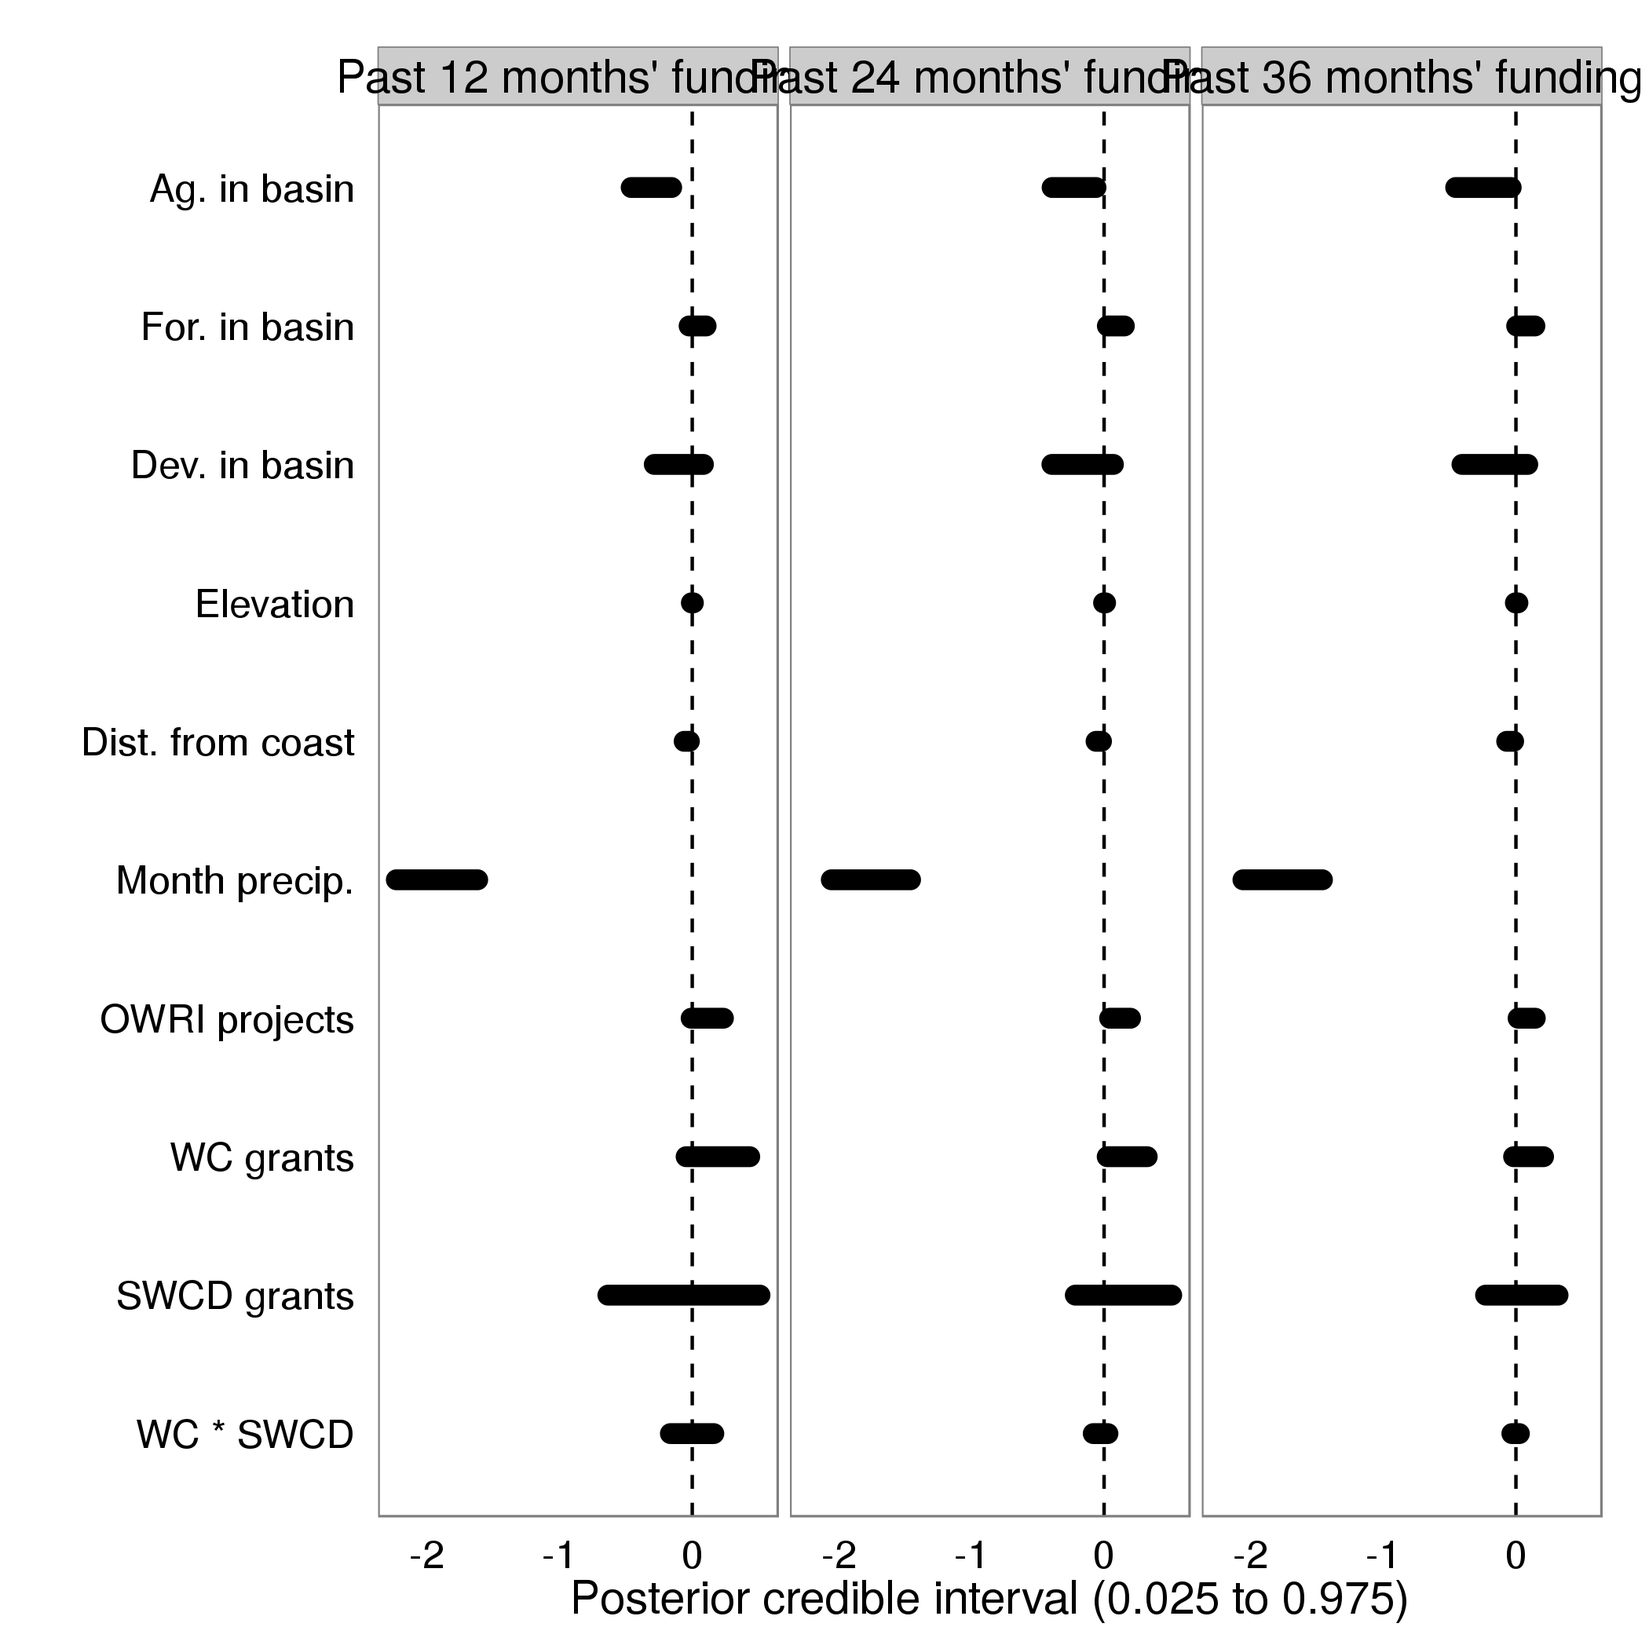
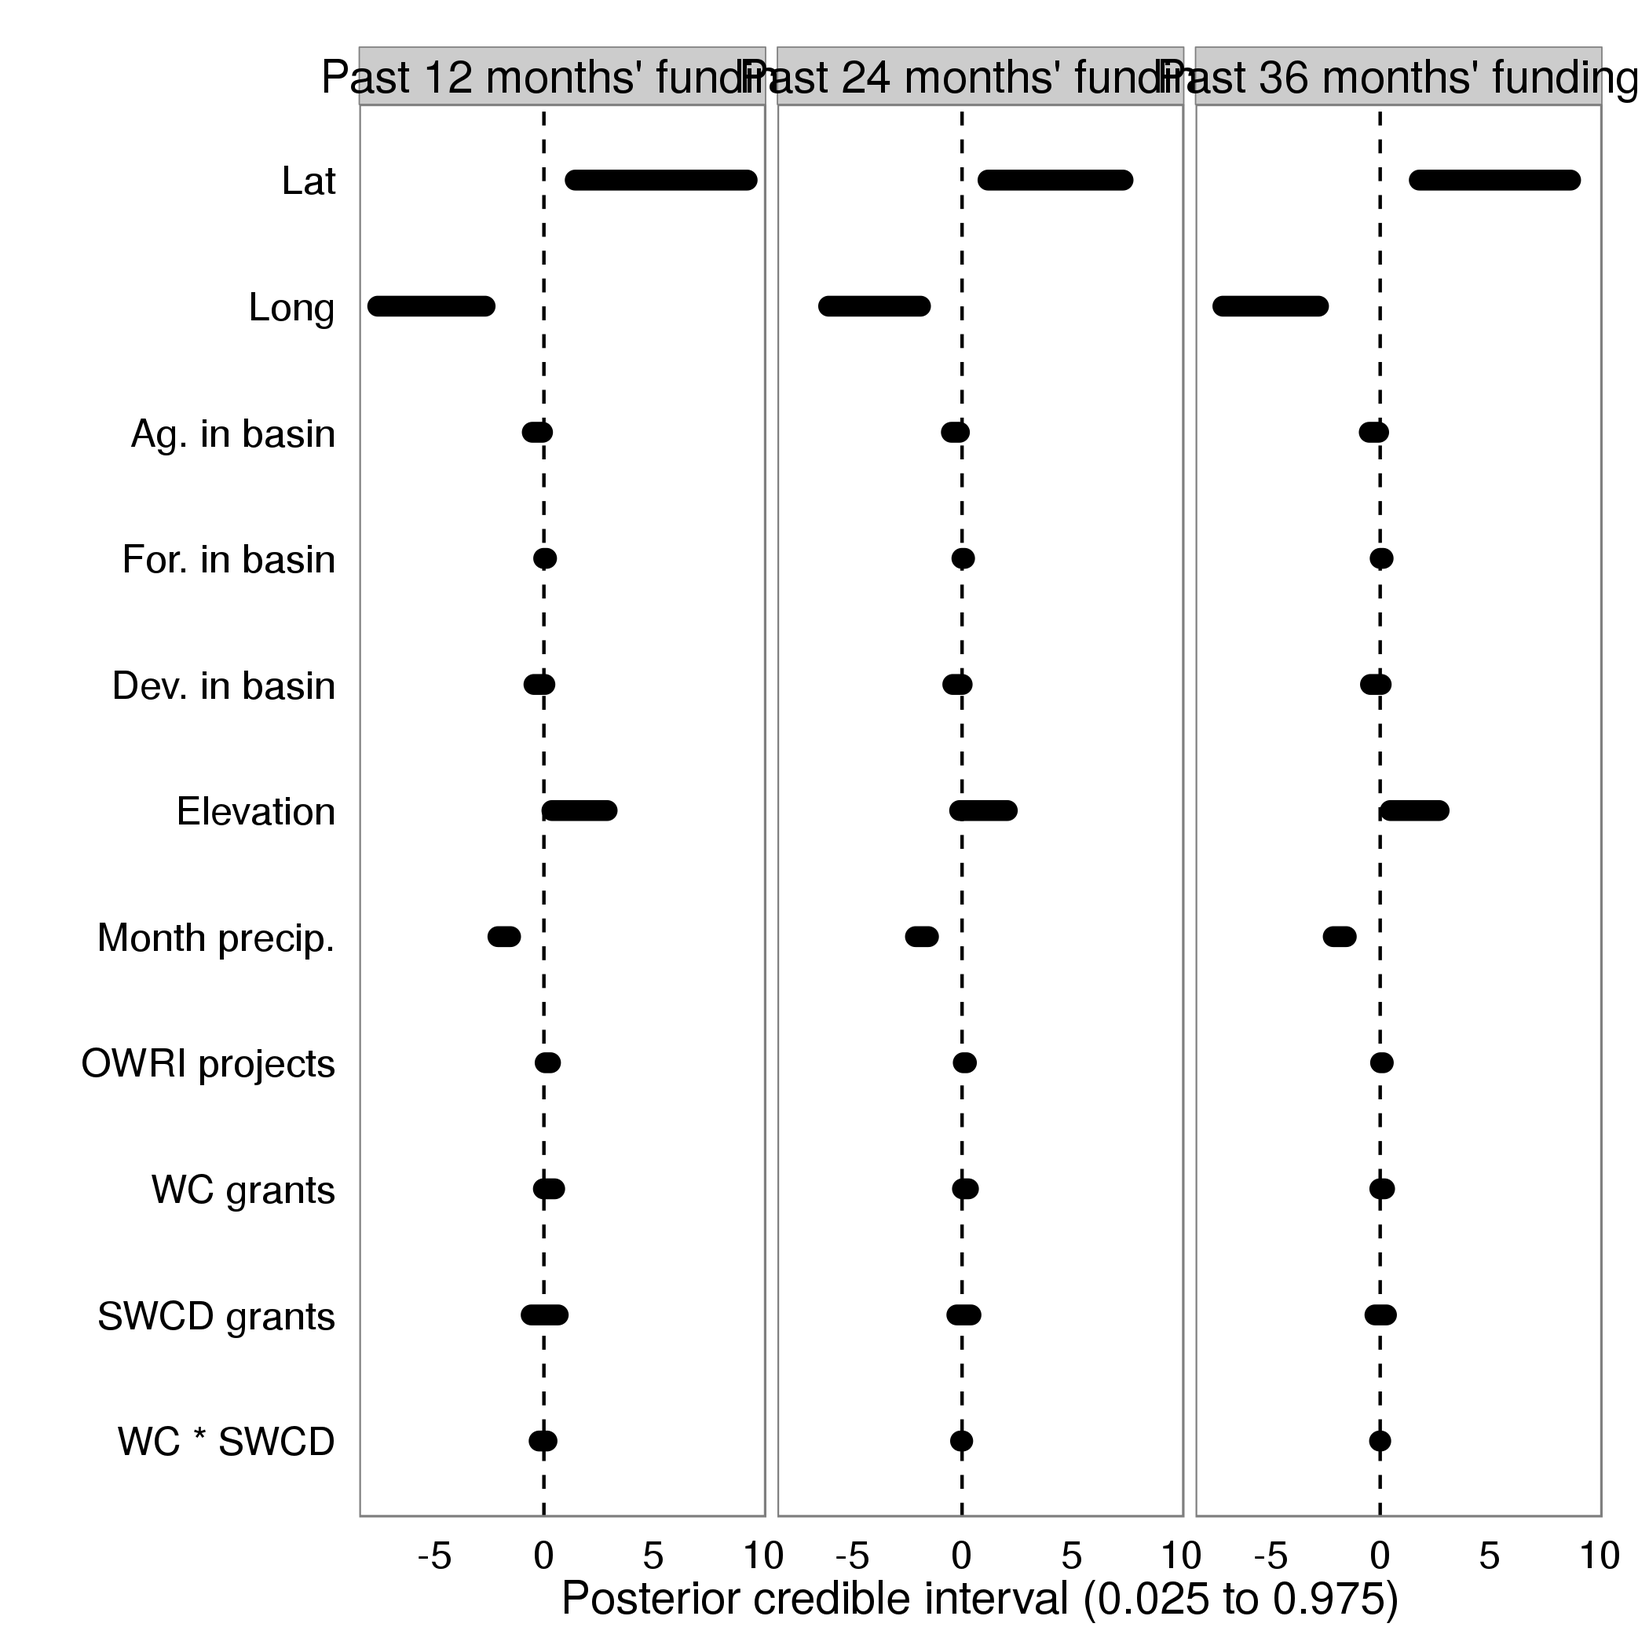
without YEAR iid

diff --git a/JPART_Submission/Version2/projectmods2.tex b/JPART_Submission/Version2/projectmods2.tex
@@ -6,42 +6,46 @@
 \hline
                    & Past 12 months' funding & Past 24 months' funding & Past 36 months' funding \\
 \hline
-Ag. in basin       & $-0.269^{*}$         & $-0.274^{*}$        & $-0.265^{*}$         \\
-                   & $[-0.476;\ -0.062]$  & $[-0.481;\ -0.067]$ & $[-0.473;\ -0.057]$  \\
-For. in basin      & $0.059$              & $0.069^{*}$         & $0.084^{*}$          \\
-                   & $[-0.004;\ 0.122]$   & $[0.005;\ 0.133]$   & $[0.017;\ 0.151]$    \\
-Dev. in basin      & $-0.146$             & $-0.157$            & $-0.174$             \\
-                   & $[-0.385;\ 0.093]$   & $[-0.396;\ 0.081]$  & $[-0.421;\ 0.072]$   \\
-Elevation          & $0.005$              & $0.004$             & $0.005$              \\
-                   & $[-0.005;\ 0.014]$   & $[-0.005;\ 0.014]$  & $[-0.004;\ 0.015]$   \\
-Dist. from coast   & $-0.043^{*}$         & $-0.042^{*}$        & $-0.042^{*}$         \\
-                   & $[-0.069;\ -0.017]$  & $[-0.068;\ -0.015]$ & $[-0.068;\ -0.016]$  \\
-Month precip.      & $-1.730^{*}$         & $-1.732^{*}$        & $-1.737^{*}$         \\
-                   & $[-2.028;\ -1.432]$  & $[-2.029;\ -1.434]$ & $[-2.035;\ -1.440]$  \\
-OWRI projects      & $0.185^{*}$          & $0.124^{*}$         & $0.082^{*}$          \\
-                   & $[0.059;\ 0.311]$    & $[0.046;\ 0.201]$   & $[0.018;\ 0.147]$    \\
-WC Outreach        & $0.658$              & $1.126$             & $1.274$              \\
-                   & $[-2.308;\ 3.622]$   & $[-0.730;\ 2.981]$  & $[-0.224;\ 2.771]$   \\
-SWCD Outreach      & $4.364$              & $4.344$             & $3.837$              \\
-                   & $[-3.237;\ 11.958]$  & $[-0.473;\ 9.157]$  & $[-0.040;\ 7.711]$   \\
-WC Tech.           & $0.014$              & $0.105$             & $0.047$              \\
-                   & $[-0.997;\ 1.024]$   & $[-0.505;\ 0.715]$  & $[-0.463;\ 0.557]$   \\
-SWCD Tech.         & $0.037$              & $-0.266$            & $-0.276$             \\
-                   & $[-2.184;\ 2.256]$   & $[-1.611;\ 1.079]$  & $[-1.391;\ 0.838]$   \\
-WC Rest.           & $0.331^{*}$          & $0.222^{*}$         & $0.189^{*}$          \\
-                   & $[0.032;\ 0.630]$    & $[0.034;\ 0.410]$   & $[0.037;\ 0.340]$    \\
-SWCD Rest.         & $0.172$              & $0.282$             & $0.208$              \\
-                   & $[-0.592;\ 0.934]$   & $[-0.160;\ 0.724]$  & $[-0.128;\ 0.544]$   \\
-WC * SWCD Outreach & $-21.045$            & $-20.943$           & $-15.521^{*}$        \\
-                   & $[-66.122;\ 23.995]$ & $[-42.434;\ 0.529]$ & $[-30.307;\ -0.748]$ \\
-WC * SWCD Tech     & $-0.098$             & $0.168$             & $0.217$              \\
-                   & $[-2.724;\ 2.526]$   & $[-0.856;\ 1.191]$  & $[-0.517;\ 0.950]$   \\
-WC * SWCD Rest.    & $-0.012$             & $-0.087$            & $-0.050$             \\
-                   & $[-0.384;\ 0.360]$   & $[-0.217;\ 0.042]$  & $[-0.121;\ 0.020]$   \\
-WC * SWCD All      & $-10.612$            & $0.210$             & $0.022$              \\
-                   & $[-67.484;\ 46.213]$ & $[-2.785;\ 3.203]$  & $[-0.407;\ 0.452]$   \\
+Lat                & $3.814^{*}$           & $3.862^{*}$          & $4.640^{*}$          \\
+                   & $[3.546;\ 4.081]$     & $[3.606;\ 4.119]$    & $[4.012;\ 5.267]$    \\
+Long.              & $0.924^{*}$           & $0.952^{*}$          & $1.148^{*}$          \\
+                   & $[0.421;\ 1.426]$     & $[0.450;\ 1.453]$    & $[0.600;\ 1.695]$    \\
+Ag. in basin       & $0.066^{*}$           & $0.078^{*}$          & $-0.084^{*}$         \\
+                   & $[0.045;\ 0.088]$     & $[0.057;\ 0.099]$    & $[-0.139;\ -0.029]$  \\
+For. in basin      & $0.383^{*}$           & $0.388^{*}$          & $0.274^{*}$          \\
+                   & $[0.366;\ 0.400]$     & $[0.371;\ 0.404]$    & $[0.239;\ 0.309]$    \\
+Dev. in basin      & $-0.383^{*}$          & $-0.398^{*}$         & $-0.256^{*}$         \\
+                   & $[-0.430;\ -0.337]$   & $[-0.443;\ -0.352]$  & $[-0.374;\ -0.139]$  \\
+Elevation          & $0.003^{*}$           & $0.003^{*}$          & $0.007^{*}$          \\
+                   & $[0.002;\ 0.004]$     & $[0.002;\ 0.004]$    & $[0.005;\ 0.010]$    \\
+Dist. from coast   & $-0.035^{*}$          & $-0.036^{*}$         & $-0.055^{*}$         \\
+                   & $[-0.043;\ -0.028]$   & $[-0.043;\ -0.029]$  & $[-0.065;\ -0.045]$  \\
+Month precip.      & $-1.639^{*}$          & $-1.635^{*}$         & $-1.423^{*}$         \\
+                   & $[-1.922;\ -1.356]$   & $[-1.903;\ -1.368]$  & $[-1.769;\ -1.077]$  \\
+OWRI projects      & $-0.013$              & $-0.010$             & $0.050$              \\
+                   & $[-0.133;\ 0.106]$    & $[-0.075;\ 0.056]$   & $[-0.020;\ 0.119]$   \\
+WC Outreach        & $8.298^{*}$           & $5.323^{*}$          & $2.368^{*}$          \\
+                   & $[5.407;\ 11.187]$    & $[3.684;\ 6.961]$    & $[0.746;\ 3.989]$    \\
+SWCD Outreach      & $-18.699^{*}$         & $-11.437^{*}$        & $2.329$              \\
+                   & $[-26.238;\ -11.166]$ & $[-15.743;\ -7.134]$ & $[-1.965;\ 6.620]$   \\
+WC Tech.           & $3.644^{*}$           & $2.131^{*}$          & $1.107^{*}$          \\
+                   & $[2.708;\ 4.578]$     & $[1.614;\ 2.648]$    & $[0.571;\ 1.642]$    \\
+SWCD Tech.         & $5.763^{*}$           & $3.171^{*}$          & $1.415^{*}$          \\
+                   & $[3.637;\ 7.887]$     & $[1.998;\ 4.344]$    & $[0.243;\ 2.586]$    \\
+WC Rest.           & $1.108^{*}$           & $0.694^{*}$          & $0.310^{*}$          \\
+                   & $[0.843;\ 1.372]$     & $[0.541;\ 0.847]$    & $[0.158;\ 0.461]$    \\
+SWCD Rest.         & $2.075^{*}$           & $1.239^{*}$          & $0.405^{*}$          \\
+                   & $[1.437;\ 2.712]$     & $[0.902;\ 1.576]$    & $[0.091;\ 0.719]$    \\
+WC * SWCD Outreach & $1.076$               & $14.015$             & $-4.931$             \\
+                   & $[-45.104;\ 47.218]$  & $[-7.103;\ 35.116]$  & $[-22.115;\ 12.237]$ \\
+WC * SWCD Tech     & $-5.675^{*}$          & $-1.871^{*}$         & $-0.901^{*}$         \\
+                   & $[-8.330;\ -3.022]$   & $[-2.839;\ -0.904]$  & $[-1.725;\ -0.077]$  \\
+WC * SWCD Rest.    & $-0.687^{*}$          & $-0.306^{*}$         & $-0.079^{*}$         \\
+                   & $[-1.049;\ -0.325]$   & $[-0.415;\ -0.197]$  & $[-0.149;\ -0.010]$  \\
+WC * SWCD All      & $-28.503$             & $-3.956^{*}$         & $-0.341$             \\
+                   & $[-85.819;\ 28.765]$  & $[-6.877;\ -1.038]$  & $[-0.852;\ 0.169]$   \\
 \hline
-DIC                & 128633.020           & 128612.892          & 128582.289           \\
+DIC                & 134801.562            & 134435.971           & 135020.666           \\
 \hline
 \multicolumn{4}{l}{\scriptsize{$^* 0$ outside the credible interval\
        OWRI: Spending on non-OWEB Restoration projects as reported in Oregon Watershed Restoration Inventory dataproject}}

diff --git a/JPART_Submission/Version2/capacitymods2.tex b/JPART_Submission/Version2/capacitymods2.tex
@@ -6,38 +6,42 @@
 \hline
                     & Past 12 months' funding & Past 24 months' funding & Past 36 months' funding \\
 \hline
-Ag. in basin        & $-0.183$            & $-0.190$            & $-0.210$            \\
-                    & $[-0.431;\ 0.065]$  & $[-0.439;\ 0.060]$  & $[-0.436;\ 0.016]$  \\
-For. in basin       & $-0.262^{*}$        & $-0.258^{*}$        & $-0.213^{*}$        \\
-                    & $[-0.469;\ -0.056]$ & $[-0.466;\ -0.051]$ & $[-0.368;\ -0.058]$ \\
-Dev. in basin       & $0.056$             & $0.057$             & $0.089^{*}$         \\
-                    & $[-0.009;\ 0.121]$  & $[-0.010;\ 0.123]$  & $[0.023;\ 0.154]$   \\
-Elevation           & $0.004$             & $0.004$             & $-0.000$            \\
-                    & $[-0.005;\ 0.014]$  & $[-0.005;\ 0.014]$  & $[-0.008;\ 0.008]$  \\
-Dist. from coast    & $-0.043^{*}$        & $-0.043^{*}$        & $-0.035^{*}$        \\
-                    & $[-0.069;\ -0.016]$ & $[-0.069;\ -0.016]$ & $[-0.056;\ -0.014]$ \\
-Month precip.       & $-1.738^{*}$        & $-1.743^{*}$        & $-1.753^{*}$        \\
-                    & $[-2.035;\ -1.441]$ & $[-2.041;\ -1.446]$ & $[-2.049;\ -1.456]$ \\
-OWRI restoration    & $0.192^{*}$         & $0.129^{*}$         & $0.087^{*}$         \\
-                    & $[0.064;\ 0.319]$   & $[0.049;\ 0.208]$   & $[0.022;\ 0.152]$   \\
-WC Outreach         & $-0.148$            & $0.349$             & $0.628$             \\
-                    & $[-3.635;\ 3.335]$  & $[-1.728;\ 2.424]$  & $[-0.969;\ 2.224]$  \\
-WC Tech.            & $0.485$             & $0.142$             & $-0.151$            \\
-                    & $[-0.886;\ 1.855]$  & $[-0.687;\ 0.970]$  & $[-0.815;\ 0.512]$  \\
-WC Rest.            & $0.261$             & $0.145$             & $0.201^{*}$         \\
-                    & $[-0.060;\ 0.583]$  & $[-0.050;\ 0.340]$  & $[0.047;\ 0.355]$   \\
-WC Capacity         & $-0.332$            & $-0.131$            & $-0.082$            \\
-                    & $[-1.018;\ 0.354]$  & $[-0.521;\ 0.259]$  & $[-0.373;\ 0.210]$  \\
-Outreach * Capacity & $2.669$             & $0.643$             & $0.316$             \\
-                    & $[-1.029;\ 6.364]$  & $[-0.433;\ 1.718]$  & $[-0.215;\ 0.847]$  \\
-Tech. * Capacity    & $-0.171$            & $0.022$             & $0.086$             \\
-                    & $[-0.689;\ 0.347]$  & $[-0.145;\ 0.189]$  & $[-0.011;\ 0.182]$  \\
-Rest. * Capacity    & $0.121$             & $0.016$             & $-0.009$            \\
-                    & $[-0.068;\ 0.310]$  & $[-0.038;\ 0.070]$  & $[-0.037;\ 0.019]$  \\
-All projects        & $-0.585$            & $-0.043$            & $-0.010$            \\
-                    & $[-1.241;\ 0.071]$  & $[-0.100;\ 0.013]$  & $[-0.024;\ 0.005]$  \\
+Lat                 & $3.910^{*}$         & $3.949^{*}$         & $4.009^{*}$         \\
+                    & $[3.659;\ 4.160]$   & $[3.705;\ 4.193]$   & $[3.753;\ 4.264]$   \\
+Long.               & $1.016^{*}$         & $1.041^{*}$         & $1.055^{*}$         \\
+                    & $[0.516;\ 1.516]$   & $[0.541;\ 1.540]$   & $[0.554;\ 1.555]$   \\
+Ag. in basin        & $-0.469^{*}$        & $-0.485^{*}$        & $-0.497^{*}$        \\
+                    & $[-0.514;\ -0.424]$ & $[-0.530;\ -0.440]$ & $[-0.545;\ -0.449]$ \\
+For. in basin       & $0.071^{*}$         & $0.080^{*}$         & $0.084^{*}$         \\
+                    & $[0.051;\ 0.091]$   & $[0.061;\ 0.100]$   & $[0.064;\ 0.105]$   \\
+Dev. in basin       & $0.385^{*}$         & $0.389^{*}$         & $0.390^{*}$         \\
+                    & $[0.369;\ 0.401]$   & $[0.373;\ 0.405]$   & $[0.374;\ 0.406]$   \\
+Elevation           & $0.003^{*}$         & $0.003^{*}$         & $0.003^{*}$         \\
+                    & $[0.002;\ 0.004]$   & $[0.002;\ 0.004]$   & $[0.002;\ 0.004]$   \\
+Dist. from coast    & $-0.033^{*}$        & $-0.034^{*}$        & $-0.034^{*}$        \\
+                    & $[-0.041;\ -0.026]$ & $[-0.041;\ -0.027]$ & $[-0.041;\ -0.027]$ \\
+Month precip.       & $-1.715^{*}$        & $-1.711^{*}$        & $-1.701^{*}$        \\
+                    & $[-1.980;\ -1.451]$ & $[-1.966;\ -1.456]$ & $[-1.966;\ -1.437]$ \\
+OWRI restoration    & $-0.010$            & $-0.018$            & $-0.037$            \\
+                    & $[-0.122;\ 0.101]$  & $[-0.081;\ 0.044]$  & $[-0.087;\ 0.014]$  \\
+WC Outreach         & $4.007^{*}$         & $2.976^{*}$         & $2.930^{*}$         \\
+                    & $[0.841;\ 7.170]$   & $[1.233;\ 4.719]$   & $[1.579;\ 4.279]$   \\
+WC Tech.            & $4.325^{*}$         & $2.413^{*}$         & $1.611^{*}$         \\
+                    & $[3.121;\ 5.529]$   & $[1.735;\ 3.090]$   & $[1.070;\ 2.152]$   \\
+WC Rest.            & $1.278^{*}$         & $0.742^{*}$         & $0.575^{*}$         \\
+                    & $[1.005;\ 1.550]$   & $[0.591;\ 0.893]$   & $[0.458;\ 0.692]$   \\
+WC Capacity         & $2.510^{*}$         & $1.237^{*}$         & $0.765^{*}$         \\
+                    & $[1.949;\ 3.070]$   & $[0.941;\ 1.533]$   & $[0.543;\ 0.987]$   \\
+Outreach * Capacity & $7.719^{*}$         & $2.173^{*}$         & $0.908^{*}$         \\
+                    & $[4.465;\ 10.969]$  & $[1.308;\ 3.037]$   & $[0.479;\ 1.337]$   \\
+Tech. * Capacity    & $-0.560^{*}$        & $-0.093$            & $0.020$             \\
+                    & $[-1.057;\ -0.063]$ & $[-0.243;\ 0.056]$  & $[-0.069;\ 0.109]$  \\
+Rest. * Capacity    & $-0.435^{*}$        & $-0.136^{*}$        & $-0.077^{*}$        \\
+                    & $[-0.598;\ -0.272]$ & $[-0.178;\ -0.093]$ & $[-0.100;\ -0.054]$ \\
+All projects        & $-1.777^{*}$        & $-0.166^{*}$        & $-0.039^{*}$        \\
+                    & $[-2.404;\ -1.151]$ & $[-0.216;\ -0.116]$ & $[-0.052;\ -0.026]$ \\
 \hline
-DIC                 & 128595.780          & 128608.551          & 128570.765          \\
+DIC                 & 134433.448          & 134409.955          & 134401.478          \\
 \hline
 \multicolumn{4}{l}{\scriptsize{$^* 0$ outside the credible interval\
        OWRI: Spending on non-OWEB Restoration capacitys as reported in Oregon Watershed Restoration Inventory datacapacity}}

diff --git a/JPART_Submission/Version2/basemods2.tex b/JPART_Submission/Version2/basemods2.tex
@@ -4,30 +4,32 @@
 \begin{center}
 \begin{tabular}{l c c c }
 \hline
-                 & Past 12 months' funding & Past 24 months' funding & Past 36 months' funding \\
+              & Past 12 months' funding & Past 24 months' funding & Past 36 months' funding \\
 \hline
-Ag. in basin     & $-0.308^{*}$        & $-0.226^{*}$        & $-0.245^{*}$        \\
-                 & $[-0.460;\ -0.155]$ & $[-0.392;\ -0.061]$ & $[-0.454;\ -0.036]$ \\
-For. in basin    & $0.040$             & $0.089^{*}$         & $0.074^{*}$         \\
-                 & $[-0.024;\ 0.105]$  & $[0.025;\ 0.153]$   & $[0.005;\ 0.143]$   \\
-Dev. in basin    & $-0.101$            & $-0.161$            & $-0.159$            \\
-                 & $[-0.286;\ 0.084]$  & $[-0.393;\ 0.070]$  & $[-0.407;\ 0.089]$  \\
-Elevation        & $0.001$             & $0.004$             & $0.005$             \\
-                 & $[-0.007;\ 0.009]$  & $[-0.004;\ 0.011]$  & $[-0.004;\ 0.015]$  \\
-Dist. from coast & $-0.041^{*}$        & $-0.040^{*}$        & $-0.043^{*}$        \\
-                 & $[-0.061;\ -0.021]$ & $[-0.061;\ -0.020]$ & $[-0.070;\ -0.017]$ \\
-Month precip.    & $-1.924^{*}$        & $-1.757^{*}$        & $-1.758^{*}$        \\
-                 & $[-2.231;\ -1.617]$ & $[-2.056;\ -1.459]$ & $[-2.058;\ -1.459]$ \\
-OWRI projects    & $0.114$             & $0.121^{*}$         & $0.081^{*}$         \\
-                 & $[-0.008;\ 0.235]$  & $[0.042;\ 0.199]$   & $[0.016;\ 0.146]$   \\
-WC grants        & $0.194$             & $0.174^{*}$         & $0.095$             \\
-                 & $[-0.046;\ 0.433]$  & $[0.023;\ 0.325]$   & $[-0.018;\ 0.208]$  \\
-SWCD grants      & $-0.063$            & $0.147$             & $0.044$             \\
-                 & $[-0.636;\ 0.511]$  & $[-0.217;\ 0.510]$  & $[-0.229;\ 0.317]$  \\
-WC * SWCD        & $-0.001$            & $-0.026$            & $-0.002$            \\
-                 & $[-0.165;\ 0.163]$  & $[-0.082;\ 0.029]$  & $[-0.031;\ 0.026]$  \\
+Lat           & $5.357^{*}$         & $4.270^{*}$         & $5.243^{*}$         \\
+              & $[1.429;\ 9.281]$   & $[1.185;\ 7.352]$   & $[1.787;\ 8.695]$   \\
+Long          & $-5.137^{*}$        & $-3.995^{*}$        & $-5.000^{*}$        \\
+              & $[-7.590;\ -2.686]$ & $[-6.094;\ -1.898]$ & $[-7.184;\ -2.817]$ \\
+Ag. in basin  & $-0.298^{*}$        & $-0.303^{*}$        & $-0.285^{*}$        \\
+              & $[-0.532;\ -0.064]$ & $[-0.488;\ -0.119]$ & $[-0.499;\ -0.070]$ \\
+For. in basin & $0.054$             & $0.054$             & $0.067$             \\
+              & $[-0.011;\ 0.120]$  & $[-0.007;\ 0.114]$  & $[-0.001;\ 0.134]$  \\
+Dev. in basin & $-0.206$            & $-0.208$            & $-0.199$            \\
+              & $[-0.456;\ 0.044]$  & $[-0.423;\ 0.006]$  & $[-0.443;\ 0.046]$  \\
+Elevation     & $1.626^{*}$         & $0.979$             & $1.577^{*}$         \\
+              & $[0.365;\ 2.887]$   & $[-0.110;\ 2.067]$  & $[0.460;\ 2.692]$   \\
+Month precip. & $-1.812^{*}$        & $-1.831^{*}$        & $-1.846^{*}$        \\
+              & $[-2.101;\ -1.523]$ & $[-2.128;\ -1.534]$ & $[-2.145;\ -1.548]$ \\
+OWRI projects & $0.178^{*}$         & $0.128^{*}$         & $0.080^{*}$         \\
+              & $[0.056;\ 0.301]$   & $[0.055;\ 0.200]$   & $[0.017;\ 0.142]$   \\
+WC grants     & $0.233$             & $0.155^{*}$         & $0.092$             \\
+              & $[-0.025;\ 0.491]$  & $[0.018;\ 0.292]$   & $[-0.017;\ 0.201]$  \\
+SWCD grants   & $0.036$             & $0.085$             & $0.024$             \\
+              & $[-0.582;\ 0.653]$  & $[-0.238;\ 0.408]$  & $[-0.239;\ 0.287]$  \\
+WC * SWCD     & $-0.039$            & $-0.019$            & $-0.002$            \\
+              & $[-0.219;\ 0.141]$  & $[-0.069;\ 0.030]$  & $[-0.030;\ 0.025]$  \\
 \hline
-DIC              & 128423.357          & 128562.367          & 128602.122          \\
+DIC           & 128305.077          & 128296.612          & 128256.655          \\
 \hline
 \multicolumn{4}{l}{\scriptsize{$^* 0$ outside the credible interval\
        OWRI: Spending on non-OWEB Restoration projects as reported in Oregon Watershed Restoration Inventory database}}
